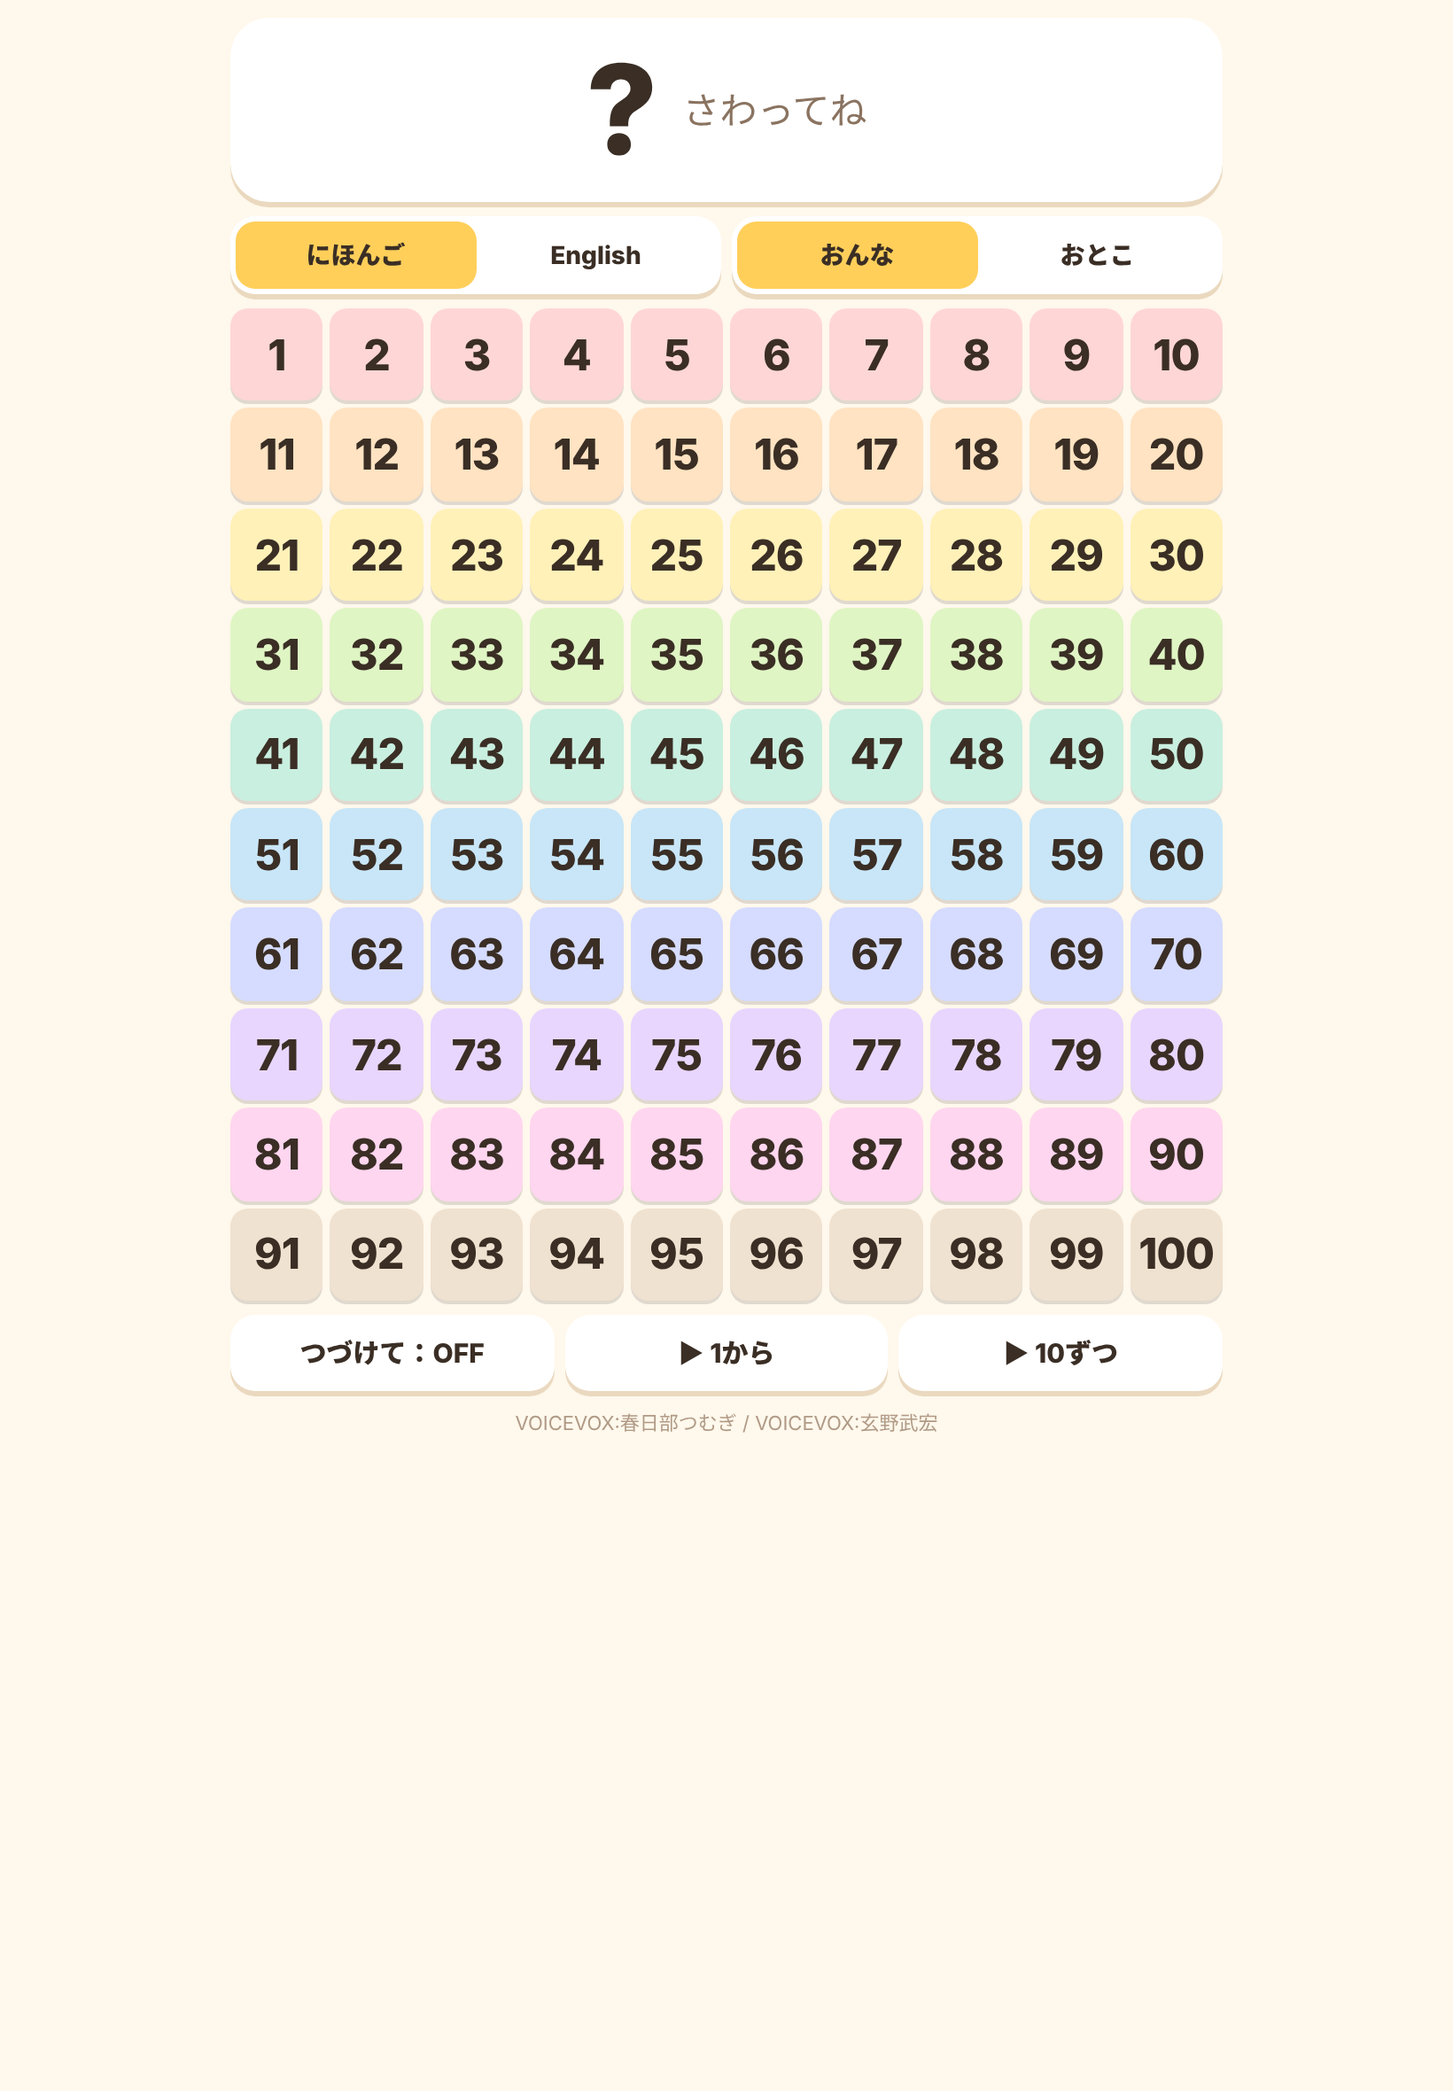
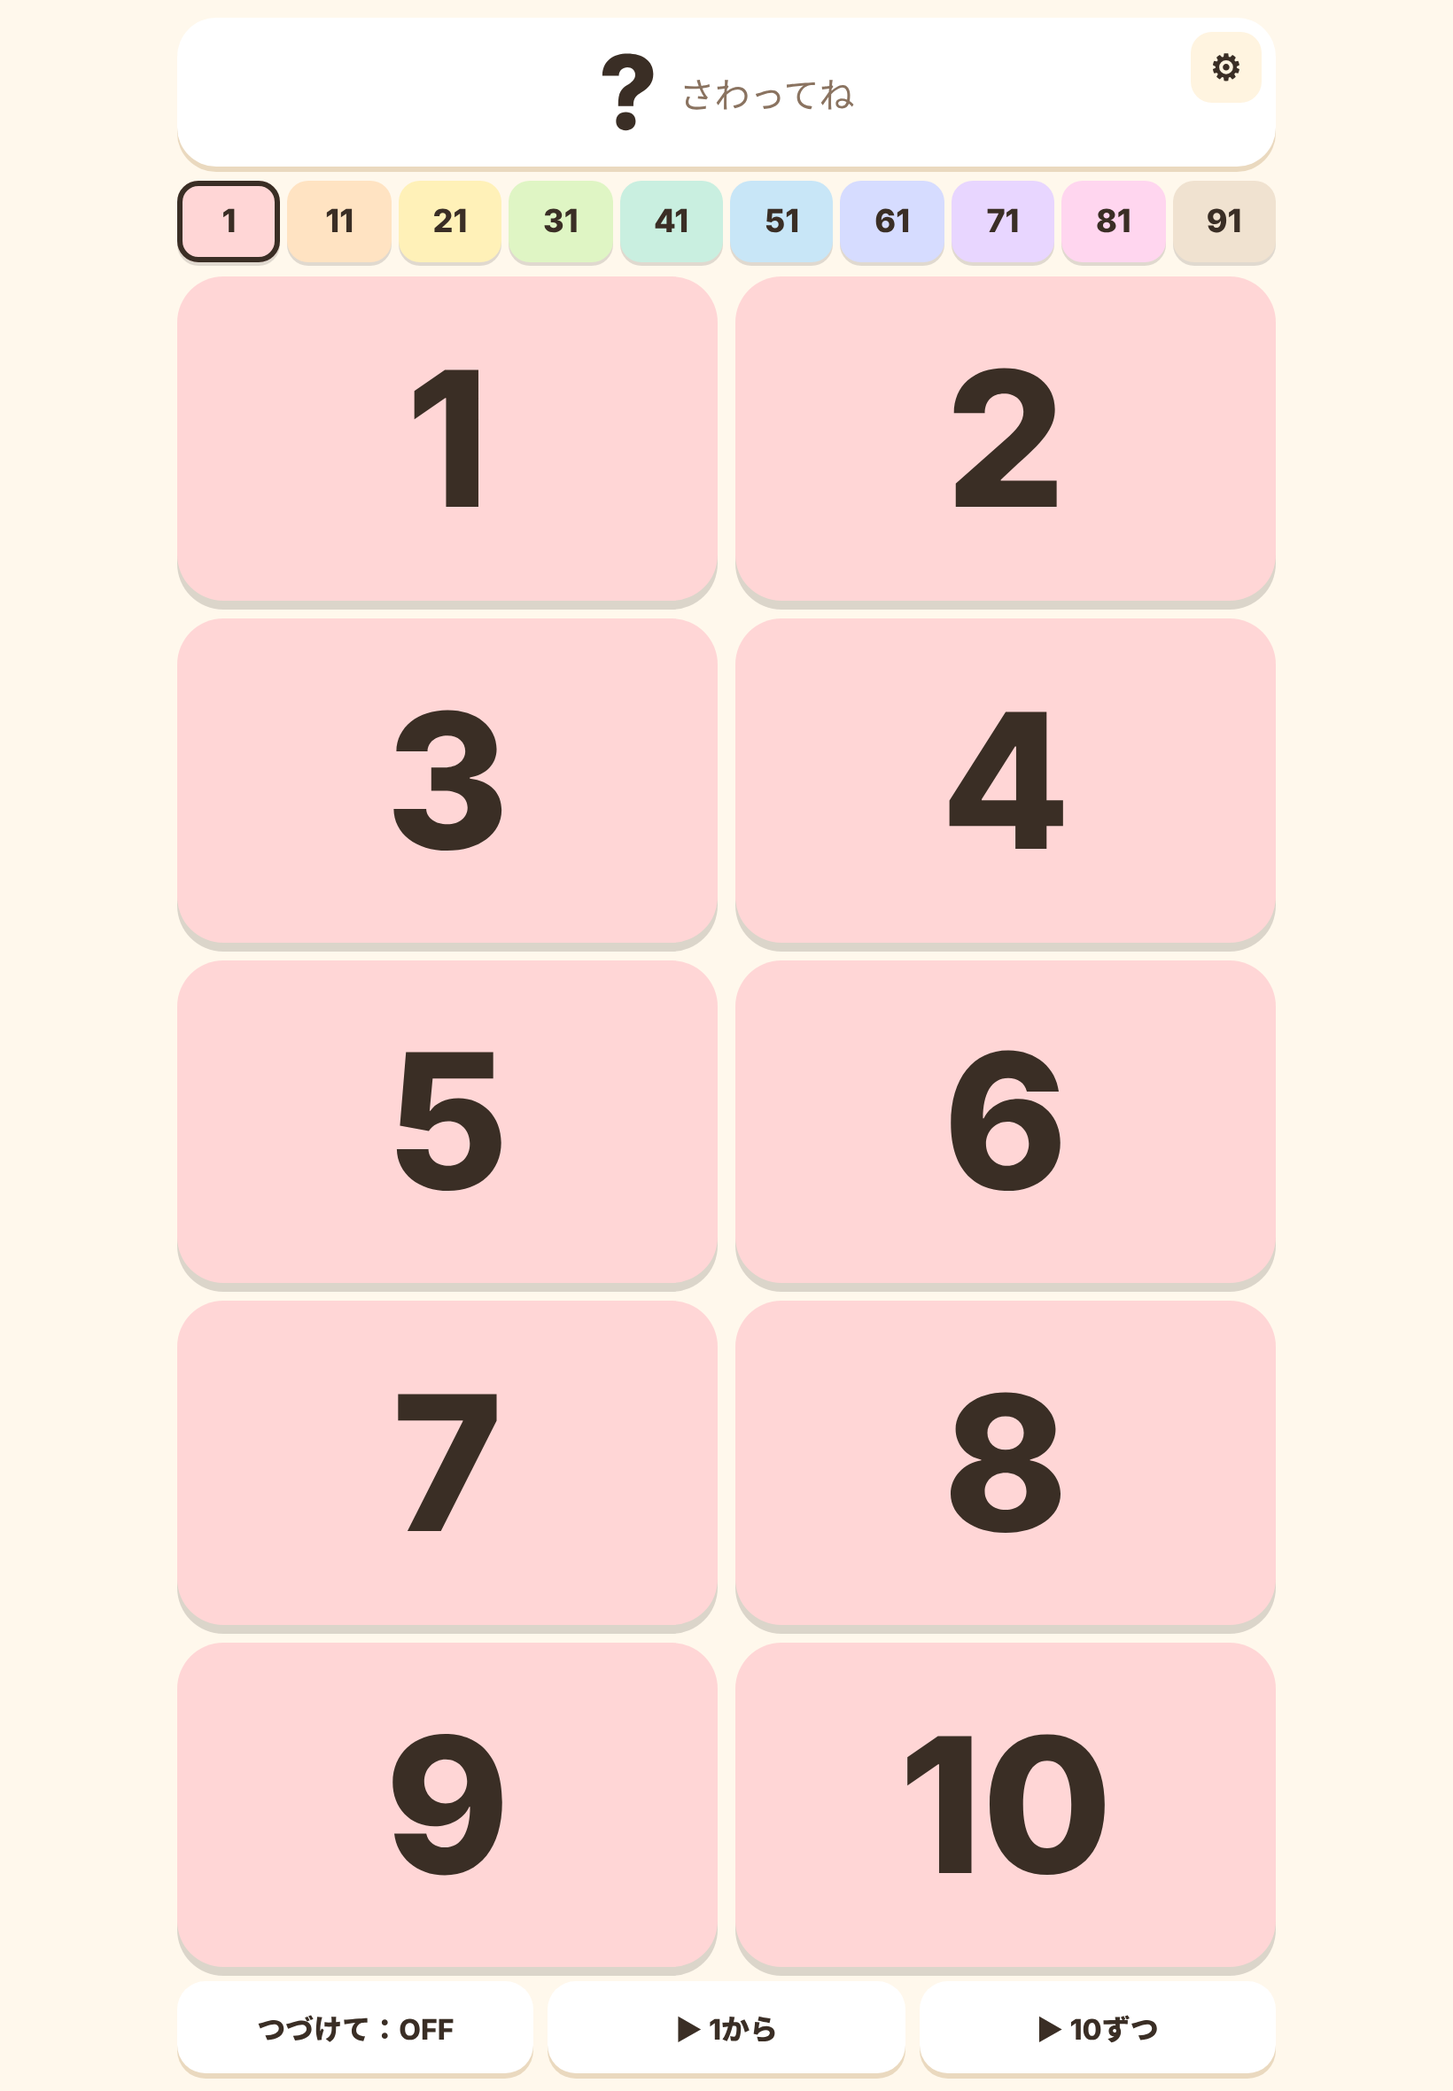
数字を大きなパネル10こ表示に変更（10の段えらび・スワイプ・設定シート）
- 基本画面を10の段ごとの大きなパネル10こに変更。上の段ボタンとスワイプで切り替え
- かけながし中は読んでいる段へ自動で切り替え
- 言語・声・表示（おおきく／ぜんぶ）を⚙の設定シートへ移動
- 100マス一覧は「ぜんぶ」で引き続き使える

Claude-Session: https://claude.ai/code/session_014vJDMVw7L2LAG5vRGU5wFi

diff --git a/index.html b/index.html
@@ -7,69 +7,128 @@
 <link href="https://fonts.googleapis.com/css2?family=M+PLUS+Rounded+1c:wght@700;800&display=swap" rel="stylesheet">
 <style>
   * { box-sizing: border-box; -webkit-tap-highlight-color: transparent; }
-  html, body { margin: 0; }
+  html, body { margin: 0; height: 100%; }
   body {
     font-family: "M PLUS Rounded 1c", system-ui, sans-serif;
     background: #fff8ec; color: #3a2e25;
-    display: flex; flex-direction: column; align-items: center;
-    padding: 10px; user-select: none; -webkit-user-select: none;
+    user-select: none; -webkit-user-select: none; overflow: hidden;
   }
-  .wrap { width: 100%; max-width: max(300px, min(560px, calc(100dvh - 270px))); }
+  .app {
+    height: 100dvh; max-width: 640px; margin: 0 auto; padding: 10px;
+    display: grid; grid-template-rows: auto auto 1fr auto; gap: 8px;
+  }
+  button { font-family: inherit; font-weight: 800; color: #3a2e25; border: none; }
+
+  /* いま読んだ数字 */
   #big {
-    height: 104px; display: flex; align-items: center; justify-content: center; gap: 14px;
-    background: #fff; border-radius: 22px; box-shadow: 0 3px 0 #ead9bf; margin-bottom: 8px;
+    position: relative; height: 84px; display: flex; align-items: center; justify-content: center; gap: 12px;
+    background: #fff; border-radius: 22px; box-shadow: 0 3px 0 #ead9bf;
   }
-  #bigNum { font-size: 70px; font-weight: 800; line-height: 1; }
-  #bigYomi { font-size: 21px; color: #8a7360; }
+  #bigNum { font-size: 58px; font-weight: 800; line-height: 1; }
+  #bigYomi { font-size: 20px; color: #8a7360; }
   #bigNum.pop { animation: pop .35s ease; }
   @keyframes pop { 0% { transform: scale(.6); } 60% { transform: scale(1.15); } 100% { transform: scale(1); } }
-  .bar { display: flex; gap: 6px; margin-bottom: 8px; }
-  .bar button {
-    flex: 1; padding: 11px 4px; border: none; border-radius: 14px;
-    font-family: inherit; font-weight: 800; font-size: 15px;
-    background: #fff; color: #3a2e25; box-shadow: 0 3px 0 #ead9bf;
+  #gear {
+    position: absolute; top: 8px; right: 8px; width: 40px; height: 40px; border-radius: 12px;
+    background: #fff4e0; font-size: 20px; line-height: 40px; padding: 0;
   }
-  .bar button.active { background: #ffcf5a; box-shadow: 0 3px 0 #d9a52c; }
-  .seg { flex: 1; display: flex; background: #fff; border-radius: 14px; padding: 3px; box-shadow: 0 3px 0 #ead9bf; }
-  .seg button { box-shadow: none; padding: 9px 2px; font-size: 14px; border-radius: 11px; background: transparent; }
-  .seg button.active { box-shadow: none; }
-  @media (prefers-reduced-motion: reduce) { #bigNum.pop { animation: none; } .cell, .cell.on { transition: none; transform: none; } }
-  .bar button:disabled { opacity: .35; }
-  #board { display: grid; grid-template-columns: repeat(10, minmax(0, 1fr)); gap: 4px; }
+
+  /* 10の段えらび */
+  #tens { display: grid; grid-template-columns: repeat(10, minmax(0, 1fr)); gap: 4px; }
+  .ten {
+    height: 46px; border-radius: 12px; padding: 0; font-size: clamp(12px, 3.6vw, 18px);
+    box-shadow: 0 2px 0 rgba(0,0,0,.12);
+  }
+  .ten.on { opacity: 1; outline: 3px solid #3a2e25; outline-offset: -3px; }
+
+  /* クソデカパネル（10こ） */
+  #panels {
+    display: grid; grid-template-columns: repeat(2, minmax(0, 1fr)); grid-template-rows: repeat(5, minmax(0, 1fr));
+    gap: 10px; min-height: 0; touch-action: pan-y;
+  }
+  @media (min-aspect-ratio: 4/5) {
+    #panels { grid-template-columns: repeat(5, minmax(0, 1fr)); grid-template-rows: repeat(2, minmax(0, 1fr)); }
+  }
+  .panel {
+    border-radius: 26px; font-size: clamp(36px, min(14vw, 9dvh), 110px); padding: 0; min-height: 0;
+    box-shadow: 0 5px 0 rgba(0,0,0,.14); transition: transform .1s;
+  }
+  .panel:active { transform: scale(.95); }
+  .panel.on { outline: 6px solid #3a2e25; outline-offset: -6px; }
+
+  /* ぜんぶ（10×10） */
+  #board { display: none; grid-template-columns: repeat(10, minmax(0, 1fr)); gap: 4px; align-content: start; }
+  .all #board { display: grid; }
+  .all #tens, .all #panels { display: none; }
+  .all .app { grid-template-rows: auto 1fr auto; }
   .cell {
-    aspect-ratio: 1; border: none; border-radius: 10px; padding: 0; min-width: 0;
-    font-family: inherit; font-weight: 800; font-size: clamp(13px, 3.8vw, 24px); letter-spacing: -0.02em;
-    color: #3a2e25; box-shadow: 0 2px 0 rgba(0,0,0,.12); transition: transform .1s;
+    aspect-ratio: 1; border-radius: 10px; padding: 0; min-width: 0;
+    font-size: clamp(13px, 3.8vw, 24px); letter-spacing: -0.02em; box-shadow: 0 2px 0 rgba(0,0,0,.12);
   }
-  .cell:active { transform: scale(.92); }
-  .cell.on { outline: 4px solid #3a2e25; transform: scale(1.08); }
-  #credit { margin-top: 10px; font-size: 11px; color: #b09a86; text-align: center; }
+  .cell.on { outline: 4px solid #3a2e25; outline-offset: -4px; }
+
+  /* 下のボタン */
+  .bar { display: flex; gap: 8px; }
+  .bar button {
+    flex: 1; padding: 14px 4px; border-radius: 16px; font-size: clamp(13px, 4vw, 16px); white-space: nowrap;
+    background: #fff; box-shadow: 0 3px 0 #ead9bf;
+  }
+  .bar button.active, .seg button.active { background: #ffcf5a; box-shadow: 0 3px 0 #d9a52c; }
+
+  /* せってい */
+  #sheet {
+    position: fixed; inset: 0; background: rgba(58,46,37,.35);
+    display: none; align-items: flex-end; justify-content: center;
+  }
+  #sheet.open { display: flex; }
+  .sheetBody {
+    width: 100%; max-width: 640px; background: #fff8ec; border-radius: 26px 26px 0 0;
+    padding: 18px 16px max(18px, env(safe-area-inset-bottom));
+  }
+  .sheetBody h2 { margin: 0 0 12px; font-size: 18px; }
+  .row { margin-bottom: 14px; }
+  .row label { display: block; font-size: 13px; color: #8a7360; margin-bottom: 6px; }
+  .seg { display: flex; gap: 6px; }
+  .seg button { flex: 1; padding: 13px 4px; border-radius: 14px; font-size: 16px; background: #fff; box-shadow: 0 3px 0 #ead9bf; }
+  .seg button:disabled { opacity: .35; }
+  #close { width: 100%; padding: 14px; border-radius: 16px; font-size: 16px; background: #3a2e25; color: #fff; }
+  #credit { margin-top: 12px; font-size: 11px; color: #b09a86; text-align: center; }
+
+  @media (prefers-reduced-motion: reduce) {
+    #bigNum.pop { animation: none; } .panel, .panel:active { transition: none; transform: none; }
+  }
 </style>
 </head>
 <body>
-<div class="wrap">
-  <div id="big" aria-live="polite"><span id="bigNum">?</span><span id="bigYomi">さわってね</span></div>
-
-  <div class="bar">
-    <div class="seg" role="group" aria-label="ことば">
-      <button id="langJa" class="active" aria-pressed="true">にほんご</button>
-      <button id="langEn" aria-pressed="false">English</button>
-    </div>
-    <div class="seg" role="group" aria-label="こえ">
-      <button id="voiceF" class="active" aria-pressed="true">おんな</button>
-      <button id="voiceM" aria-pressed="false">おとこ</button>
-    </div>
+<div class="app">
+  <div id="big" aria-live="polite">
+    <span id="bigNum">?</span><span id="bigYomi">さわってね</span>
+    <button id="gear" aria-label="せってい">⚙</button>
   </div>
 
+  <div id="tens" role="group" aria-label="10のだん"></div>
+  <div id="panels"></div>
   <div id="board"></div>
 
-  <div class="bar" style="margin-top:8px">
+  <div class="bar">
     <button id="contBtn" aria-pressed="false">つづけて：OFF</button>
     <button id="countBtn">▶ 1から</button>
     <button id="tenBtn">▶ 10ずつ</button>
   </div>
+</div>
 
-  <div id="credit">VOICEVOX:春日部つむぎ / VOICEVOX:玄野武宏</div>
+<div id="sheet" role="dialog" aria-modal="true" aria-label="せってい">
+  <div class="sheetBody">
+    <h2>せってい</h2>
+    <div class="row"><label>ことば</label>
+      <div class="seg"><button id="langJa" class="active" aria-pressed="true">にほんご</button><button id="langEn" aria-pressed="false">English</button></div></div>
+    <div class="row"><label>こえ（にほんご）</label>
+      <div class="seg"><button id="voiceF" class="active" aria-pressed="true">おんな</button><button id="voiceM" aria-pressed="false">おとこ</button></div></div>
+    <div class="row"><label>ひょうじ</label>
+      <div class="seg"><button id="viewBig" class="active" aria-pressed="true">おおきく（10こ）</button><button id="viewAll" aria-pressed="false">ぜんぶ（100こ）</button></div></div>
+    <button id="close">とじる</button>
+    <div id="credit">VOICEVOX:春日部つむぎ / VOICEVOX:玄野武宏</div>
+  </div>
 </div>
 
 <script>
@@ -83,26 +142,68 @@ const EN_TENS = ["", "", "twenty","thirty","forty","fifty","sixty","seventy","ei
 const enYomi = n => n === 100 ? "one hundred" : n < 20 ? EN_ONES[n]
   : EN_TENS[Math.floor(n / 10)] + (n % 10 ? "-" + EN_ONES[n % 10] : "");
 
+// 10の段ごとの色（くもん数字盤と同じく段で区切りが見えるように）
 const COLORS = ["#ffd6d6","#ffe3c2","#fff1b8","#dff5c4","#c9efe0","#c8e6f7","#d6dcff","#e8d6ff","#ffd6ef","#f0e2d0"];
+const rowOf = n => Math.floor((n - 1) / 10);
 
-let lang = "ja", voice = "f", cont = false;
+let lang = "ja", voice = "f", cont = false, page = 0, current = 0;
 const $ = id => document.getElementById(id);
-const board = $("board"), bigNum = $("bigNum"), bigYomi = $("bigYomi");
-const cells = [];
+const bigNum = $("bigNum"), bigYomi = $("bigYomi");
 
-for (let n = 1; n <= 100; n++) {
+function tap(n) { cont ? run(n, 1, null) : (stop(), show(n), say(n)); }
+
+// 10の段えらび
+const tenBtns = COLORS.map((c, i) => {
   const b = document.createElement("button");
-  b.className = "cell";
-  b.textContent = n;
-  b.style.background = COLORS[Math.floor((n - 1) / 10)];
-  b.addEventListener("click", () => cont ? run(n, 1, null) : (stop(), show(n), say(n)));
-  board.appendChild(b);
-  cells.push(b);
+  b.className = "ten"; b.textContent = i * 10 + 1; b.style.background = c;
+  b.setAttribute("aria-label", `${i * 10 + 1}から${i * 10 + 10}`);
+  b.addEventListener("click", () => setPage(i));
+  $("tens").appendChild(b);
+  return b;
+});
+
+// 大きいパネル10こ（中身はページで入れ替え）
+const panels = Array.from({ length: 10 }, (_, i) => {
+  const b = document.createElement("button");
+  b.className = "panel";
+  b.addEventListener("click", () => tap(page * 10 + i + 1));
+  $("panels").appendChild(b);
+  return b;
+});
+
+// ぜんぶ表示の100マス
+const cells = Array.from({ length: 100 }, (_, i) => {
+  const b = document.createElement("button");
+  b.className = "cell"; b.textContent = i + 1; b.style.background = COLORS[rowOf(i + 1)];
+  b.addEventListener("click", () => tap(i + 1));
+  $("board").appendChild(b);
+  return b;
+});
+
+function setPage(p) {
+  page = p;
+  tenBtns.forEach((b, i) => b.classList.toggle("on", i === p));
+  panels.forEach((b, i) => {
+    const n = p * 10 + i + 1;
+    b.textContent = n; b.style.background = COLORS[p];
+    b.classList.toggle("on", n === current);
+  });
 }
 
+// 左右スワイプで前後の段へ
+let sx = null;
+$("panels").addEventListener("touchstart", e => { sx = e.touches[0].clientX; }, { passive: true });
+$("panels").addEventListener("touchend", e => {
+  if (sx === null) return;
+  const dx = e.changedTouches[0].clientX - sx; sx = null;
+  if (Math.abs(dx) > 60) setPage(Math.min(9, Math.max(0, page + (dx < 0 ? 1 : -1))));
+});
+
 function show(n) {
-  cells.forEach(c => c.classList.remove("on"));
-  cells[n - 1].classList.add("on");
+  current = n;
+  if (rowOf(n) !== page) setPage(rowOf(n));
+  panels.forEach(b => b.classList.toggle("on", +b.textContent === n));
+  cells.forEach((c, i) => c.classList.toggle("on", i + 1 === n));
   bigNum.textContent = n;
   bigYomi.textContent = lang === "ja" ? jaYomi(n) : enYomi(n);
   bigNum.classList.remove("pop"); void bigNum.offsetWidth; bigNum.classList.add("pop");
@@ -175,29 +276,32 @@ contBtn.addEventListener("click", () => {
   if (!cont) stop();
 });
 
-function setLang(l) {
-  lang = l; stop();
-  $("langJa").classList.toggle("active", l === "ja");
-  $("langEn").classList.toggle("active", l === "en");
-  $("voiceF").disabled = $("voiceM").disabled = l === "en";
-  bigNum.textContent = "?";
-  bigYomi.textContent = l === "ja" ? "さわってね" : "tap a number";
-  cells.forEach(c => c.classList.remove("on"));
-}
-function setVoice(v) {
-  voice = v; stop();
-  $("voiceF").classList.toggle("active", v === "f");
-  $("voiceM").classList.toggle("active", v === "m");
-}
+// せってい
+function pick(onId, offId) { $(onId).classList.add("active"); $(offId).classList.remove("active"); }
+$("gear").addEventListener("click", () => $("sheet").classList.add("open"));
+$("close").addEventListener("click", () => $("sheet").classList.remove("open"));
+$("sheet").addEventListener("click", e => { if (e.target.id === "sheet") $("sheet").classList.remove("open"); });
 $("langJa").addEventListener("click", () => setLang("ja"));
 $("langEn").addEventListener("click", () => setLang("en"));
-$("voiceF").addEventListener("click", () => setVoice("f"));
-$("voiceM").addEventListener("click", () => setVoice("m"));
+$("voiceF").addEventListener("click", () => { voice = "f"; stop(); pick("voiceF", "voiceM"); });
+$("voiceM").addEventListener("click", () => { voice = "m"; stop(); pick("voiceM", "voiceF"); });
+$("viewBig").addEventListener("click", () => { document.body.classList.remove("all"); pick("viewBig", "viewAll"); });
+$("viewAll").addEventListener("click", () => { document.body.classList.add("all"); pick("viewAll", "viewBig"); });
+
+function setLang(l) {
+  lang = l; stop();
+  l === "ja" ? pick("langJa", "langEn") : pick("langEn", "langJa");
+  $("voiceF").disabled = $("voiceM").disabled = l === "en";
+  bigYomi.textContent = current ? (l === "ja" ? jaYomi(current) : enYomi(current)) : (l === "ja" ? "さわってね" : "tap a number");
+}
+
 // 見た目の選択状態と読み上げソフト向けの状態を合わせる
 new MutationObserver(ms => ms.forEach(m => {
   const el = m.target;
   if (el.hasAttribute("aria-pressed")) el.setAttribute("aria-pressed", el.classList.contains("active"));
 })).observe(document.body, { subtree: true, attributes: true, attributeFilter: ["class"] });
+
+setPage(0);
 </script>
 </body>
 </html>

diff --git a/CLAUDE.md b/CLAUDE.md
@@ -6,7 +6,8 @@ App Factoryのアプリ。共通ルールは `meganworks/app-factory` の CLAUDE
 
 ## このアプリ固有のこと
 
-- 対象：幼児（数字が好きな子）。親が隣で操作を手伝う前提。画面はくもんの数字盤と同じ「10×10・行ごとに色分け」を崩さない。
+- 対象：幼児（数字が好きな子）。親が隣で操作を手伝う前提。基本画面は10の段ごとに「子どもが押せる大きなパネル10こ」（CEO決定 2026-11-13）。色は10の段ごとに分け、くもん数字盤と同じ並び。100マス一覧は設定の「ぜんぶ」で残す。
+- 言語・声・表示の切り替えは設定（⚙）に隠す（えきよみと同じ考え方）。
 - 主要オブジェクトは「数字（1〜100）」1つ。操作は「タップで読む」「続けて読む」「1から／10ずつ自動で読む」。
 - 日本語音声は VOICEVOX の録音（`ja_f/` 春日部つむぎ、`ja_m/` 玄野武宏）。数字の読みは 4=よん、7=なな、9=きゅう で統一。作り直しは `scripts/gen_voices.py`。
 - 英語は端末の読み上げ音声（VOICEVOXは日本語専用）。
